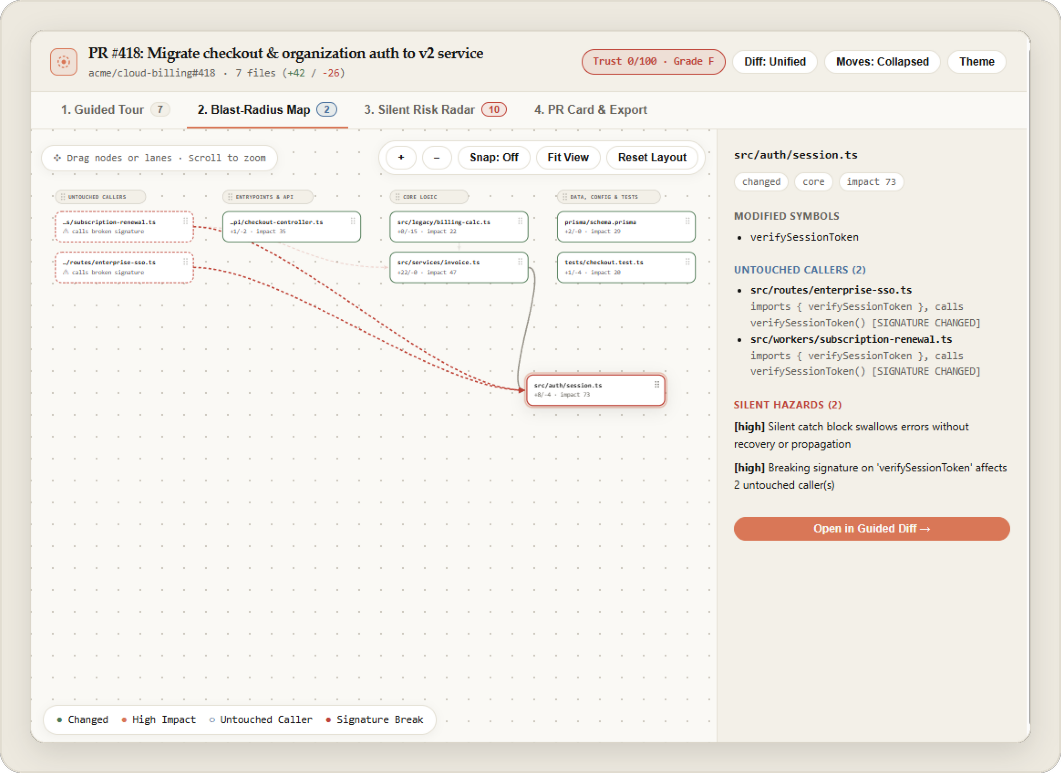
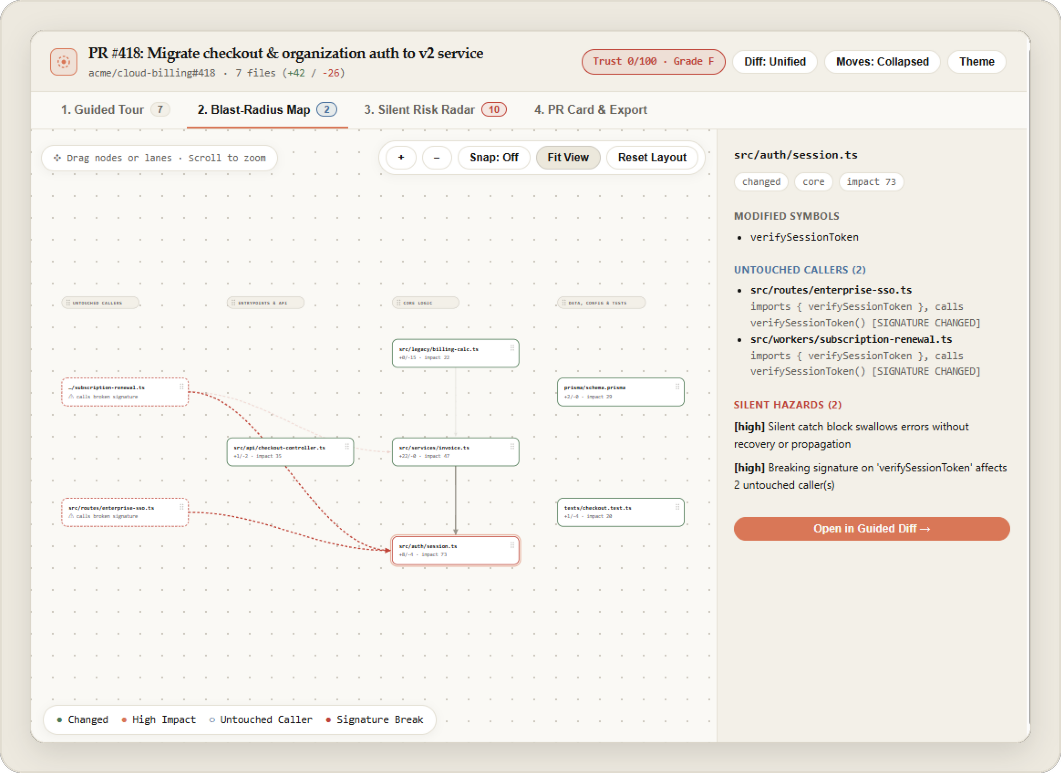
polish(studio): v2.2.4 narrow embedded auto-fit, README canvas plate & T+2.6h telemetry (#33)

diff --git a/docs/PROJECT_STATE.md b/docs/PROJECT_STATE.md
@@ -6,7 +6,7 @@
 
 - **Repository**: `https://github.com/unbridled-41/diffxray`
 - **Live Web Studio**: `https://unbridled-41.github.io/diffxray/` (`HTTP 200` verified — `v2.1` Draggable Blast-Radius Canvas & Warm Archival Editorial Design System)
-- **Current Version**: `2.2.3`
+- **Current Version**: `2.2.4`
 - **Current Phase**: Phase 4 — 7-Day 1,000-Star Growth Sprint & Continuous Iteration (`Milestone M4`)
 - **Formal `v1.0.0` Public Launch Timestamp**: **`2026-11-18T05:19:58Z`** (Baseline: `0` Stars)
 - **7-Day Assessment Deadline (`T+168h`)**: **`2026-11-25T05:19:58Z`**

diff --git a/docs/GROWTH_LOG.md b/docs/GROWTH_LOG.md
@@ -62,3 +62,4 @@ Because Hacker News (`news.ycombinator.com`), Reddit (`r/ClaudeAI`, `r/programmi
 | Check Time (UTC) | Elapsed | Stars | Forks | Unique Views (14d) | Unique Clones (14d) | Release Downloads | Notes |
 | --- | ---: | ---: | ---: | ---: | ---: | ---: | --- |
 | `2026-11-18T05:19:58Z` | `0.0h` | `0` | `0` | `0` | `0` | `0` | Formal `v1.0.0` launch baseline |
+| `2026-11-18T07:58:07Z` | `2.6h` | `0` | `0` | `0` | `0` | `13` | `v2.2.4` live; all 9 community outreach channels (`491k+⭐`) active & verified open |

diff --git a/CHANGELOG.md b/CHANGELOG.md
@@ -2,6 +2,11 @@
 
 All notable changes to **DiffXray** are documented in this file.
 
+## [2.2.4] - 2026-11-18
+
+### Polished
+- **Narrow Embedded Viewport Auto-Fit**: Lowered `fitGraphViewport()` minimum zoom floor to `0.36` so 4-lane graphs auto-fit cleanly inside `1024px` laptop embedded frames without horizontal clipping, and refreshed `docs/media/showcase-blast-radius.png` with the symmetrical lattice layout.
+
 ## [2.2.3] - 2026-11-18
 
 ### Fixed
